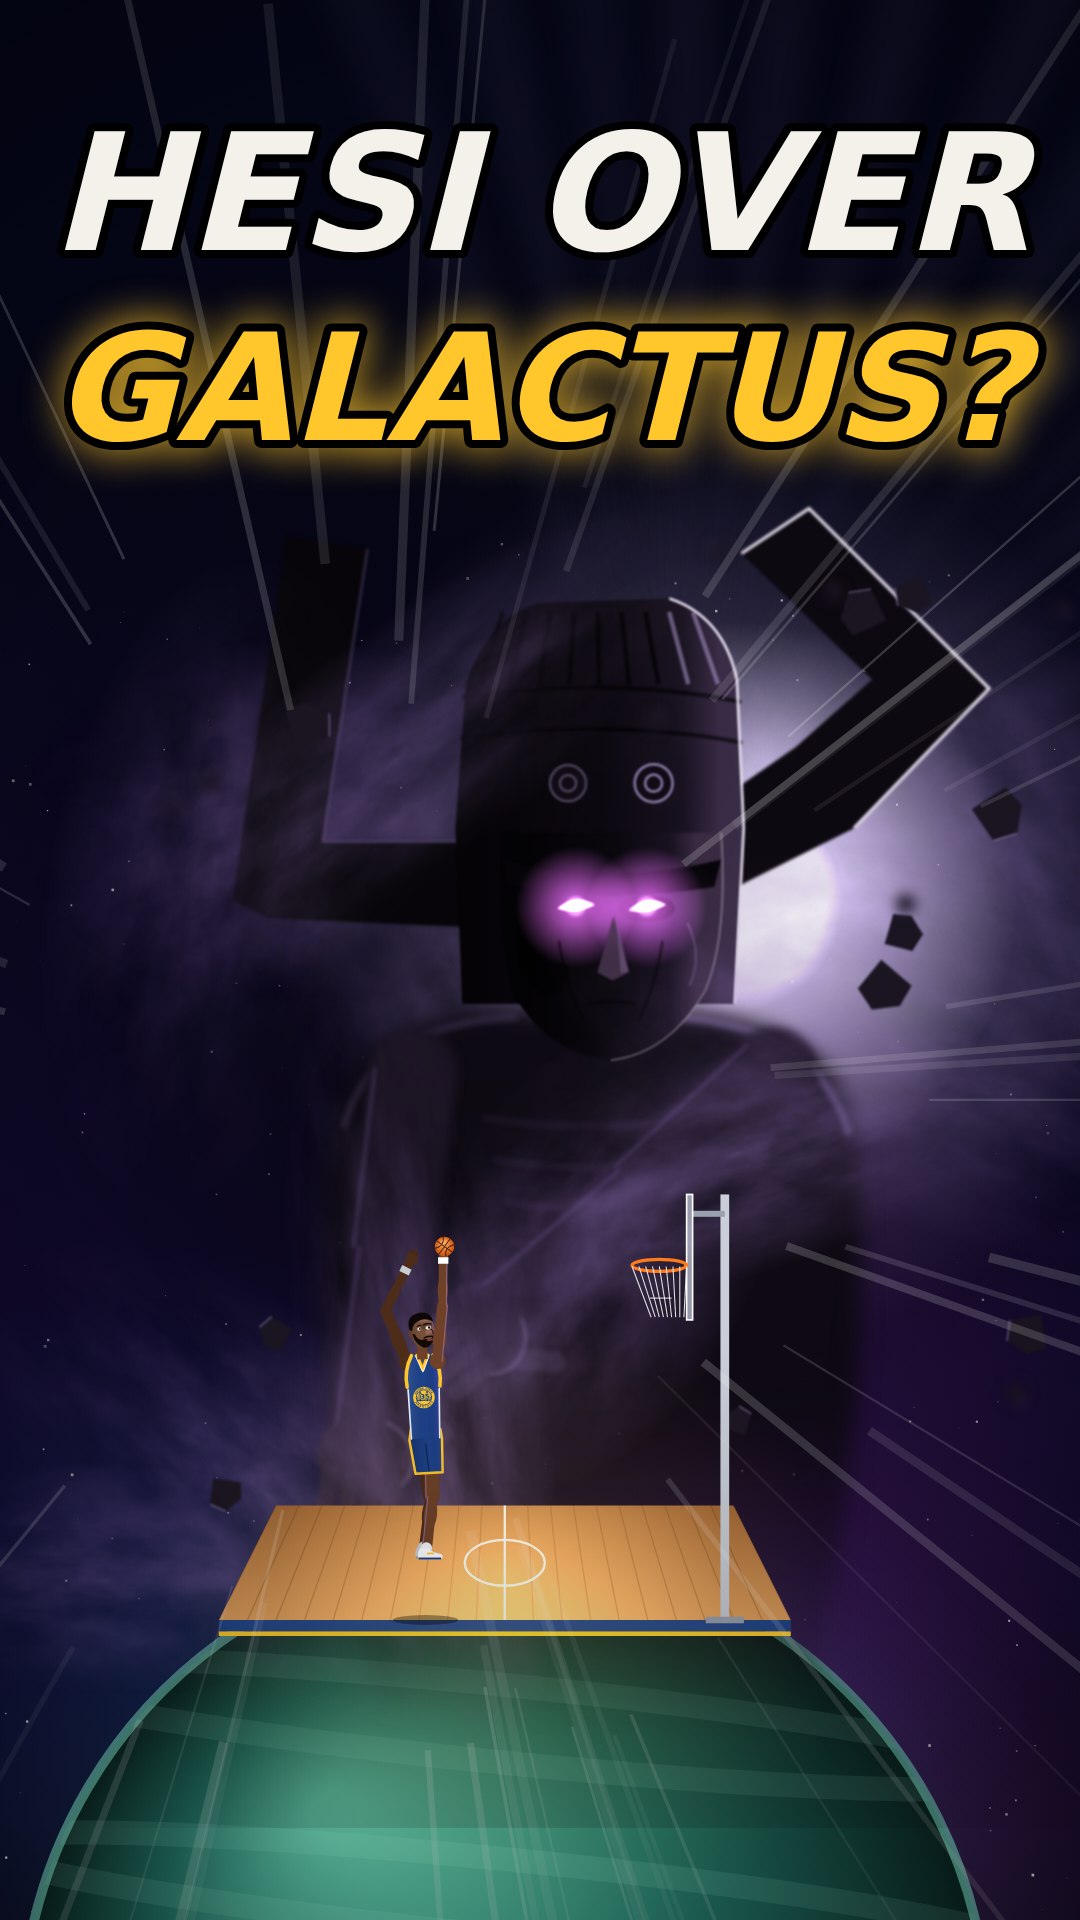
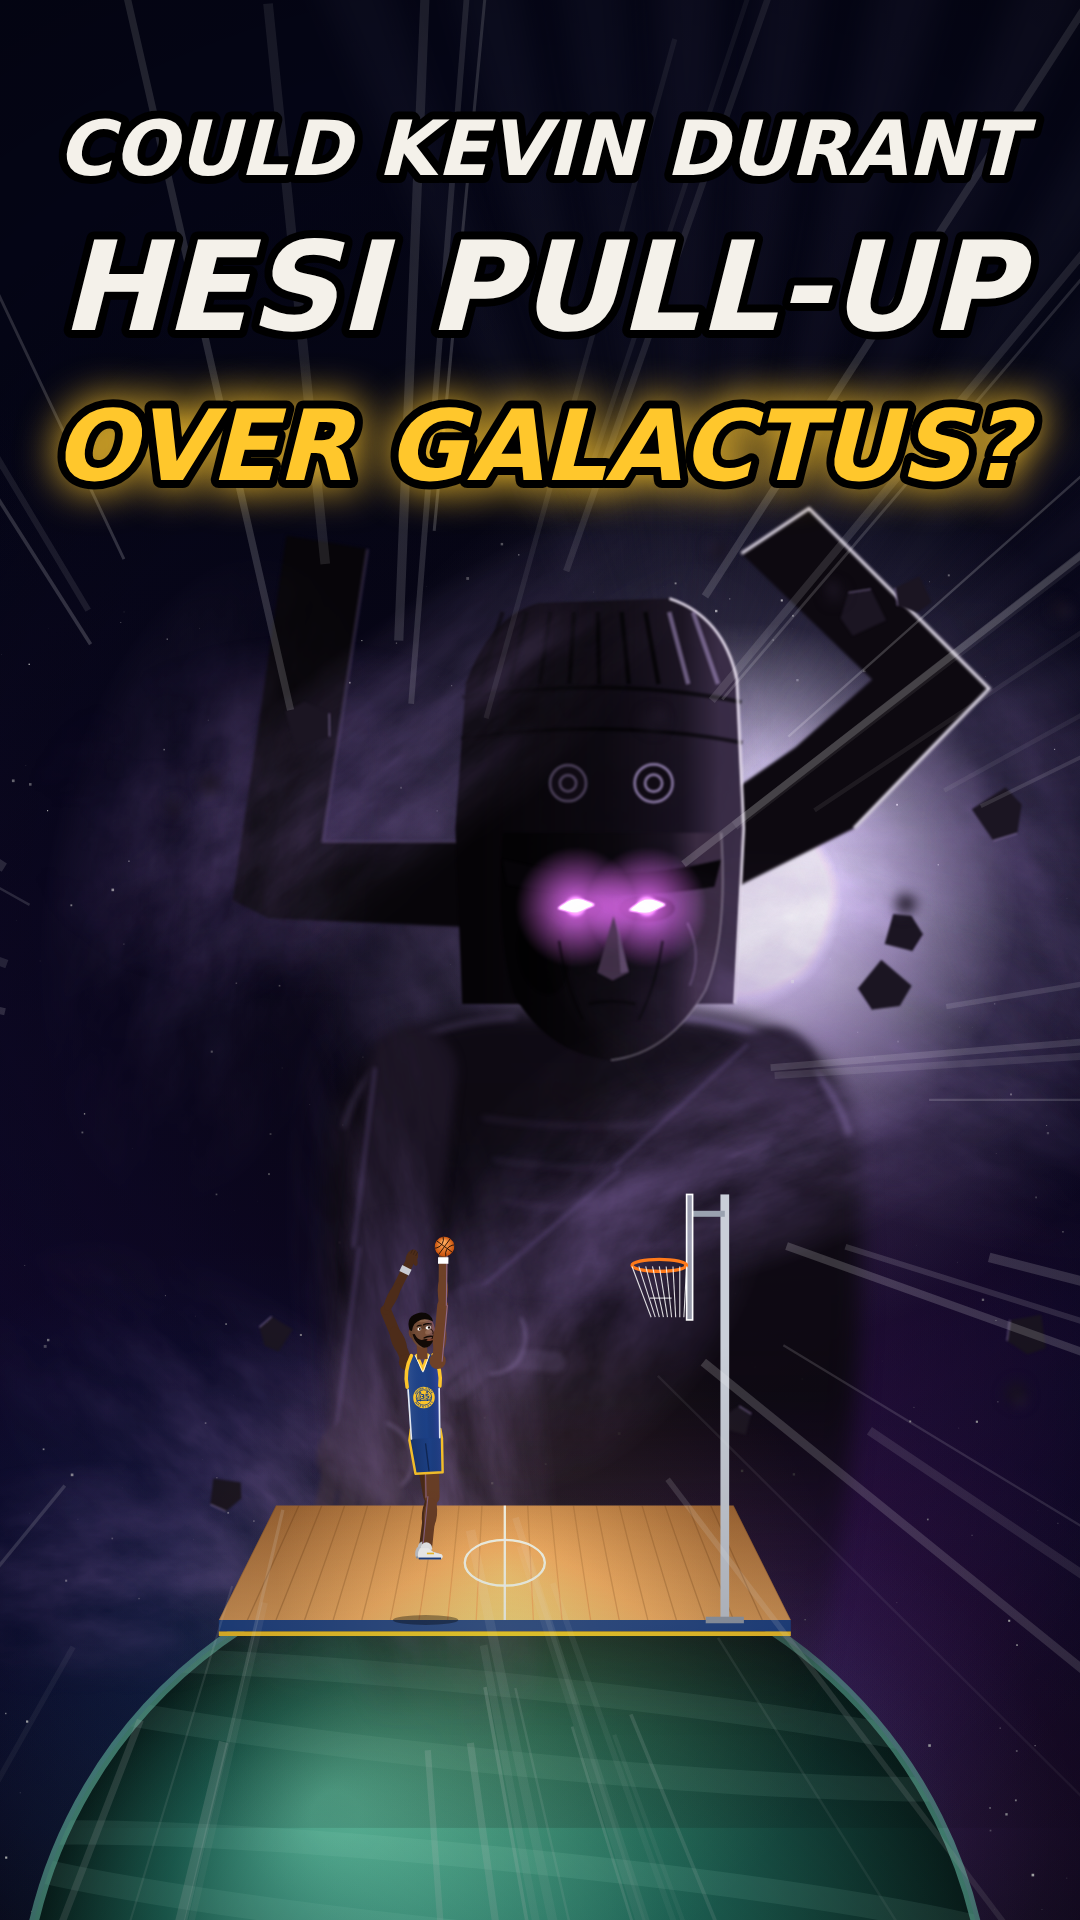
KD vs Galactus: thumbnail text 'Could Kevin Durant hesi pull-up over Galactus?'
Claude-Session: https://claude.ai/code/session_013waGN2ARspf4yShZssZUe5

Changed region(s): [[0.0306, 0.0312, 1.0, 0.2812]]

diff --git a/youtube/you-experiment/kd-galactus/source_code/kdg2.html b/youtube/you-experiment/kd-galactus/source_code/kdg2.html
@@ -253,6 +253,6 @@ window.renderFrame = (f) => { const t = f / 30; T = t; SHK = 0; g.setTransform(1
   if (u < 0.1 && i > 0) { g.fillStyle = `rgba(255,255,255,${0.08 * (1 - u / 0.1)})`; g.fillRect(0, 0, W, H); }
   return true; };
 window.renderThumb = () => { T = 2.2; g.setTransform(1, 0, 0, 1, 0, 0); g.save(); cam(0.44, 640, 60); nebula(0, 0); planet(560, 2500, 1100); giant(760, 1560, 1.05, { hand: 0.33, eyes: 1.9 }); court(560, 1560, 1300); hoop(1060, 1560, 0.62); kd(380, 1560, 0.62, P.shoot, { jump: 140, holdBall: true }); g.restore(); speedLines(380, 1100, 0.25);
-  const vg = g.createRadialGradient(W / 2, 900, H * 0.25, W / 2, 900, H * 0.75); vg.addColorStop(0, 'rgba(0,0,0,0)'); vg.addColorStop(1, 'rgba(0,0,0,0.55)'); g.fillStyle = vg; g.fillRect(0, 0, W, H); txt('HESI OVER', 540, 250, 175, C.white); txt('GALACTUS?', 540, 440, 185, C.gold, { glow: C.gold }); return true; };
+  const vg = g.createRadialGradient(W / 2, 900, H * 0.25, W / 2, 900, H * 0.75); vg.addColorStop(0, 'rgba(0,0,0,0)'); vg.addColorStop(1, 'rgba(0,0,0,0.55)'); g.fillStyle = vg; g.fillRect(0, 0, W, H); txt('COULD KEVIN DURANT', 540, 175, 92, C.white); txt('HESI PULL-UP', 540, 330, 128, C.white); txt('OVER GALACTUS?', 540, 480, 118, C.gold, { glow: C.gold }); return true; };
 fetch('./words.json').then((r) => r.json()).then((w) => { WORDS = w; window.ready = true; });
 </script></body></html>
